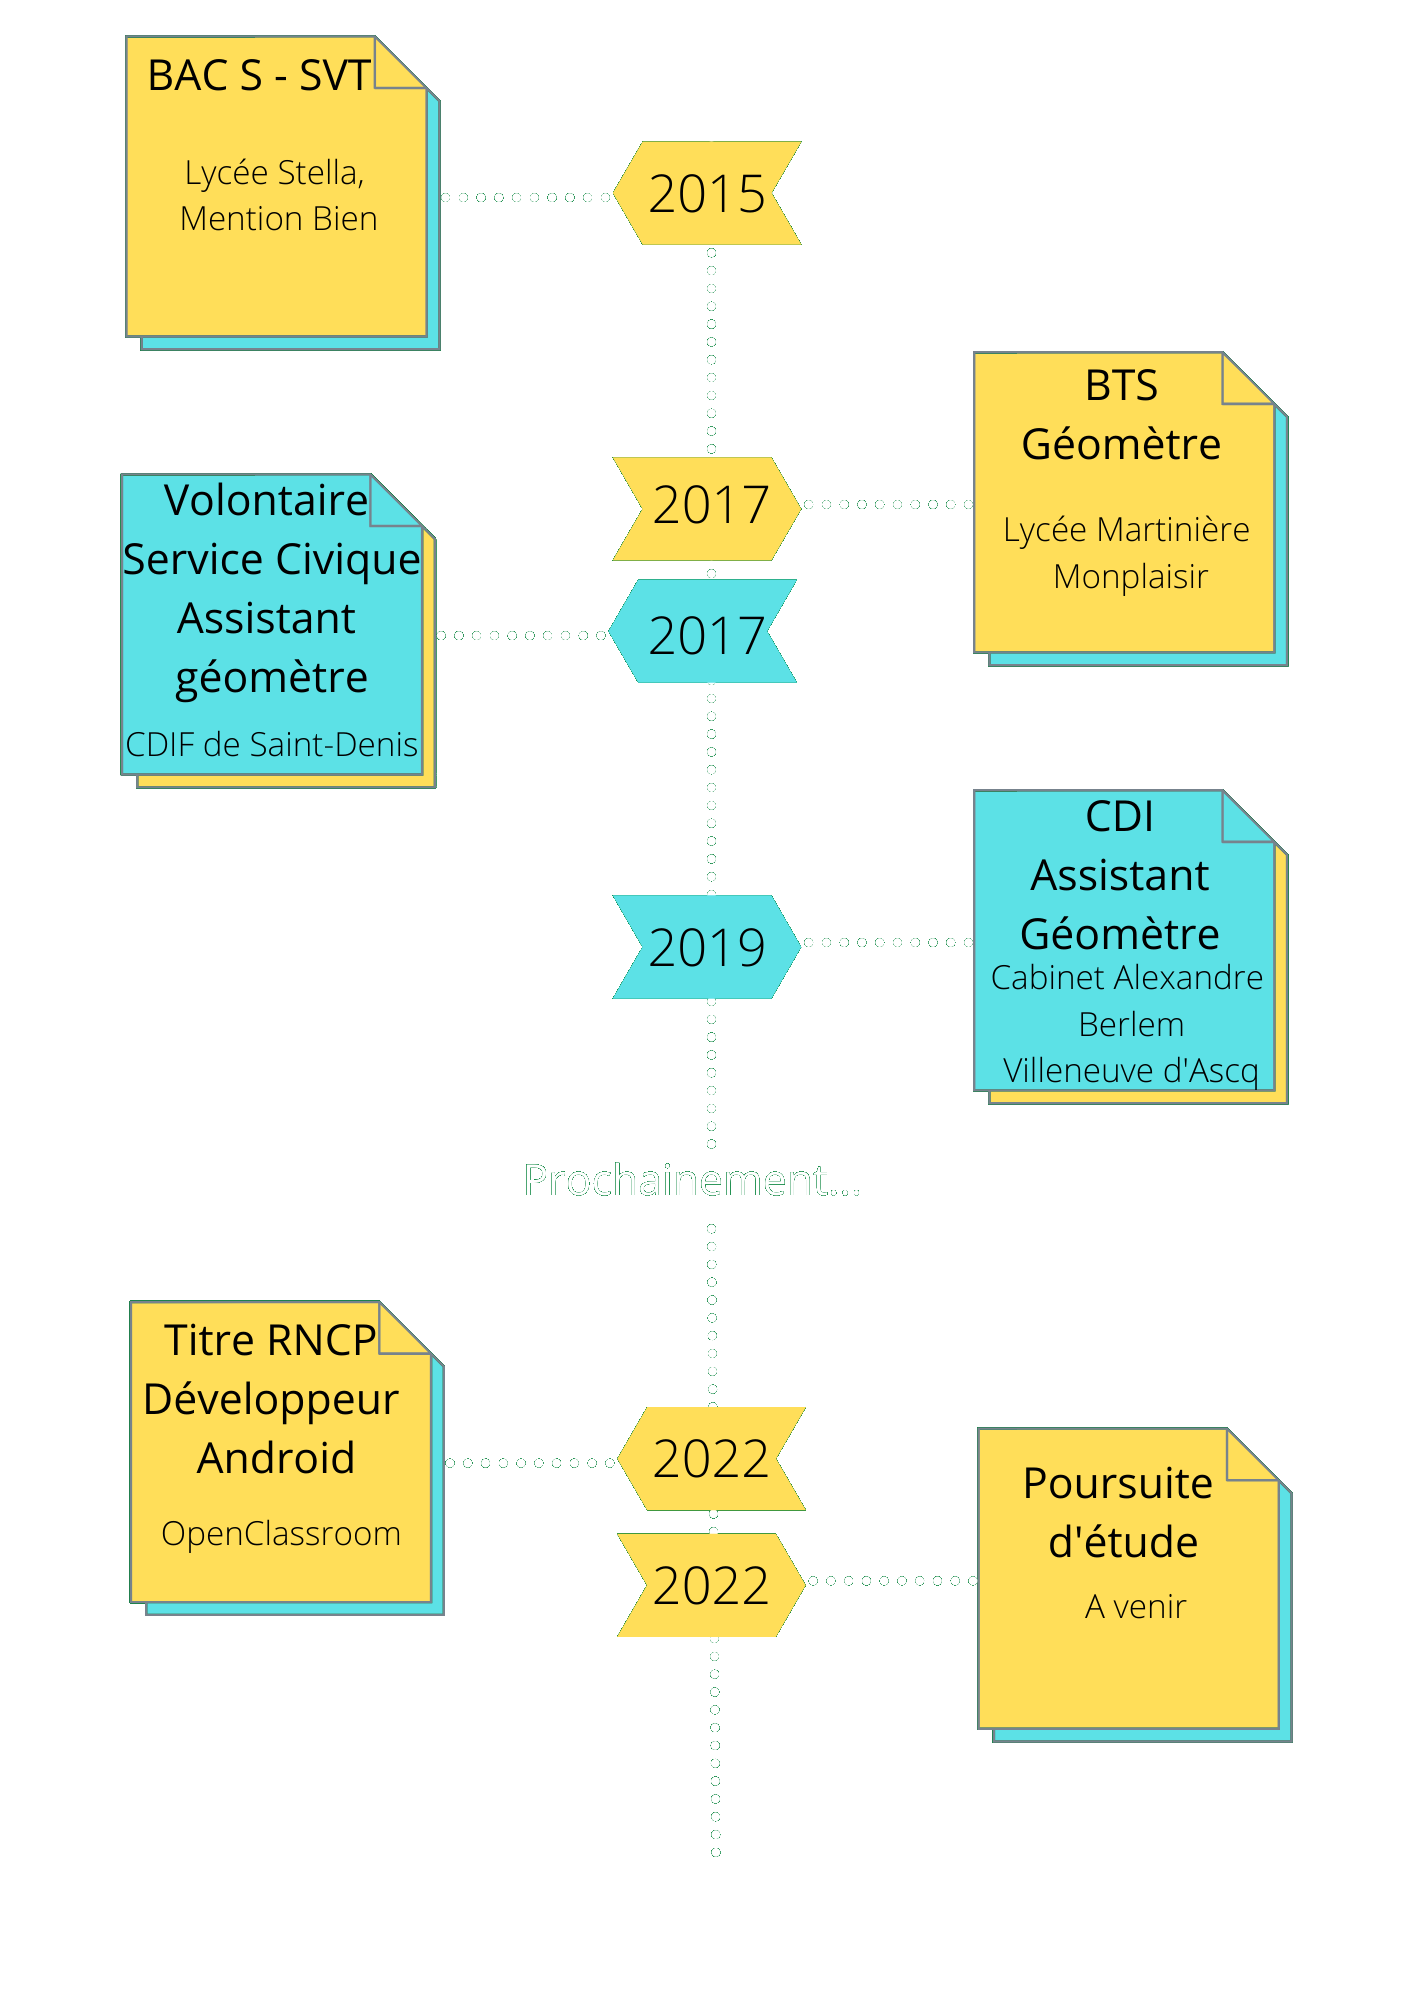
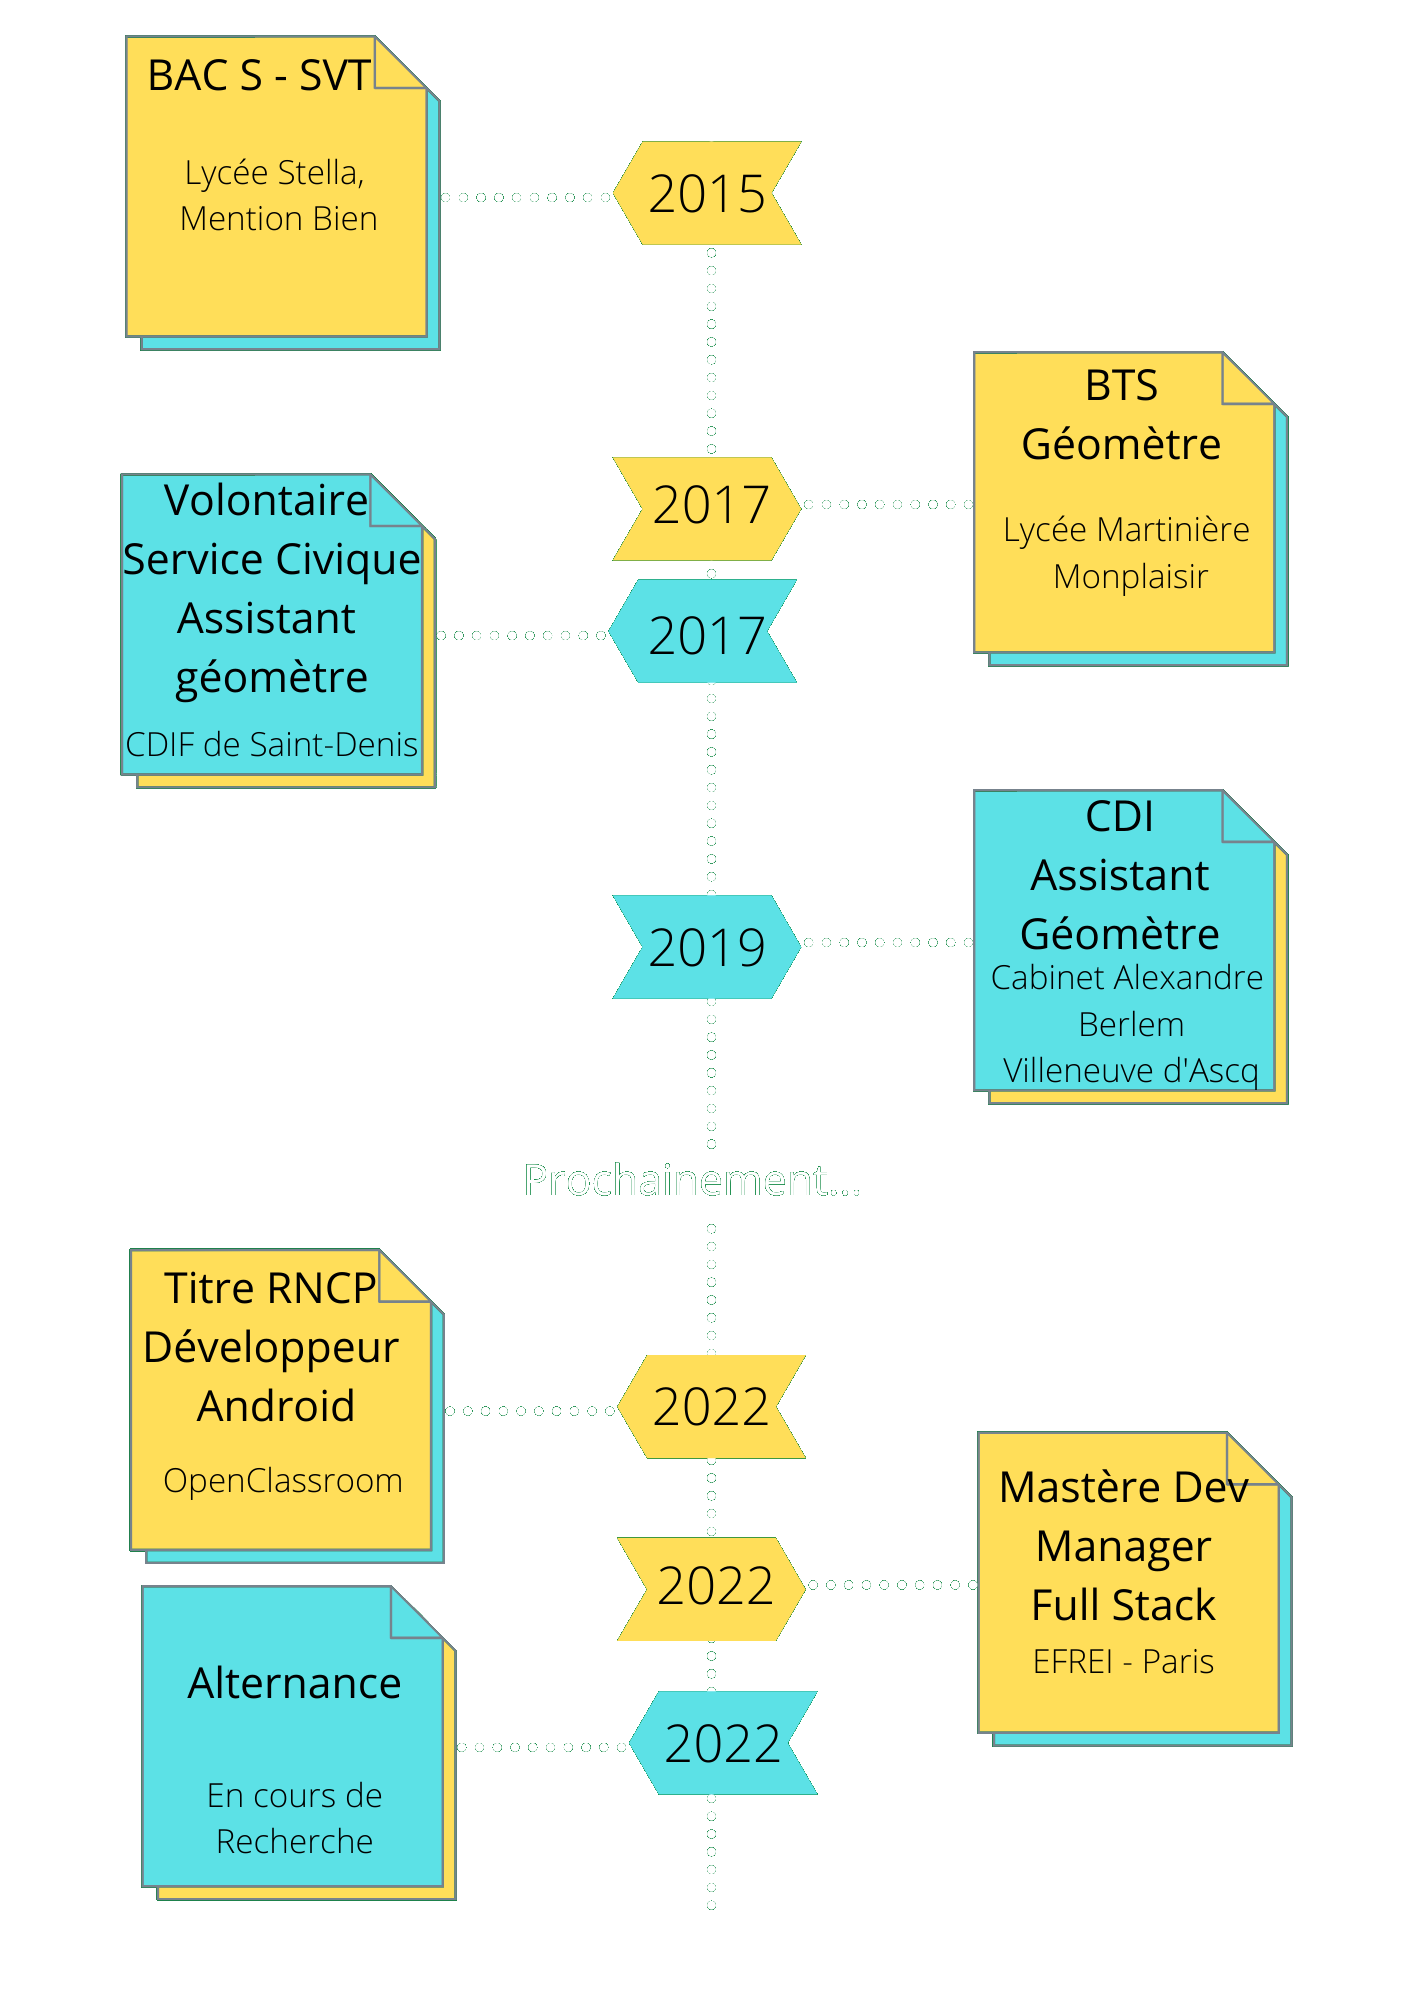
Màj : Recherche Alternance Efrei

diff --git a/index.html b/index.html
@@ -35,10 +35,10 @@
             <article id="profil_personnel">
                 <H2> PROFIL PERSONNEL </H2>
                 <p> 
-                    En reconversion professionnelle, j'ai décidé de me tourner vers le secteur du digital et plus spécifiquement de la programmation. 
-                    Ainsi, j'ai suivi pendant plusieurs mois des cours en autodidacte 
-                    dans le domaine informatique afin d'acquérir le maximum de connaissances en partant de celles de bases aux plus approfondies. <br>
-                    Et aujourd'hui je suis une formation afin d'obtenir un Titre RNCP de niveau 6 (BAC+3) en tant que "Développeur d'application Android".
+                    En reconversion professionnelle, j'ai décidé de me tourner vers le secteur du digital et plus spécifiquement de la programmation. <br> 
+                    Actuellement en formation pour le titre RNCP de niveau 6 "Développeur d'Application Android" chez OpenClassroom, 
+                    j’ai été admis en Mastère "Dev Manager Full Stack" à l’EFREI de Paris, afin de poursuivre dans cette voie. <br> <br>
+                    De ce fait, je recherche une alternance pour la rentrée de Septembre pour mon Mastère à l’Efrei.
                 </p>
 
                 <H3> COMPÉTENCES ET SAVOIR-FAIRE </H3>

diff --git a/CSS/CV.css b/CSS/CV.css
@@ -76,13 +76,13 @@ header a { /* Liens */
 section {
     height: 100%;
     width: 100%;
-    padding-top: 25%;
+    padding-top: 20%;
     line-height: 150%;
 }
 
 
 article {
-    min-height: 100%;
+    min-height: 90%;
     width: auto;
     margin-right: 5%;
     margin-left: 5%;
